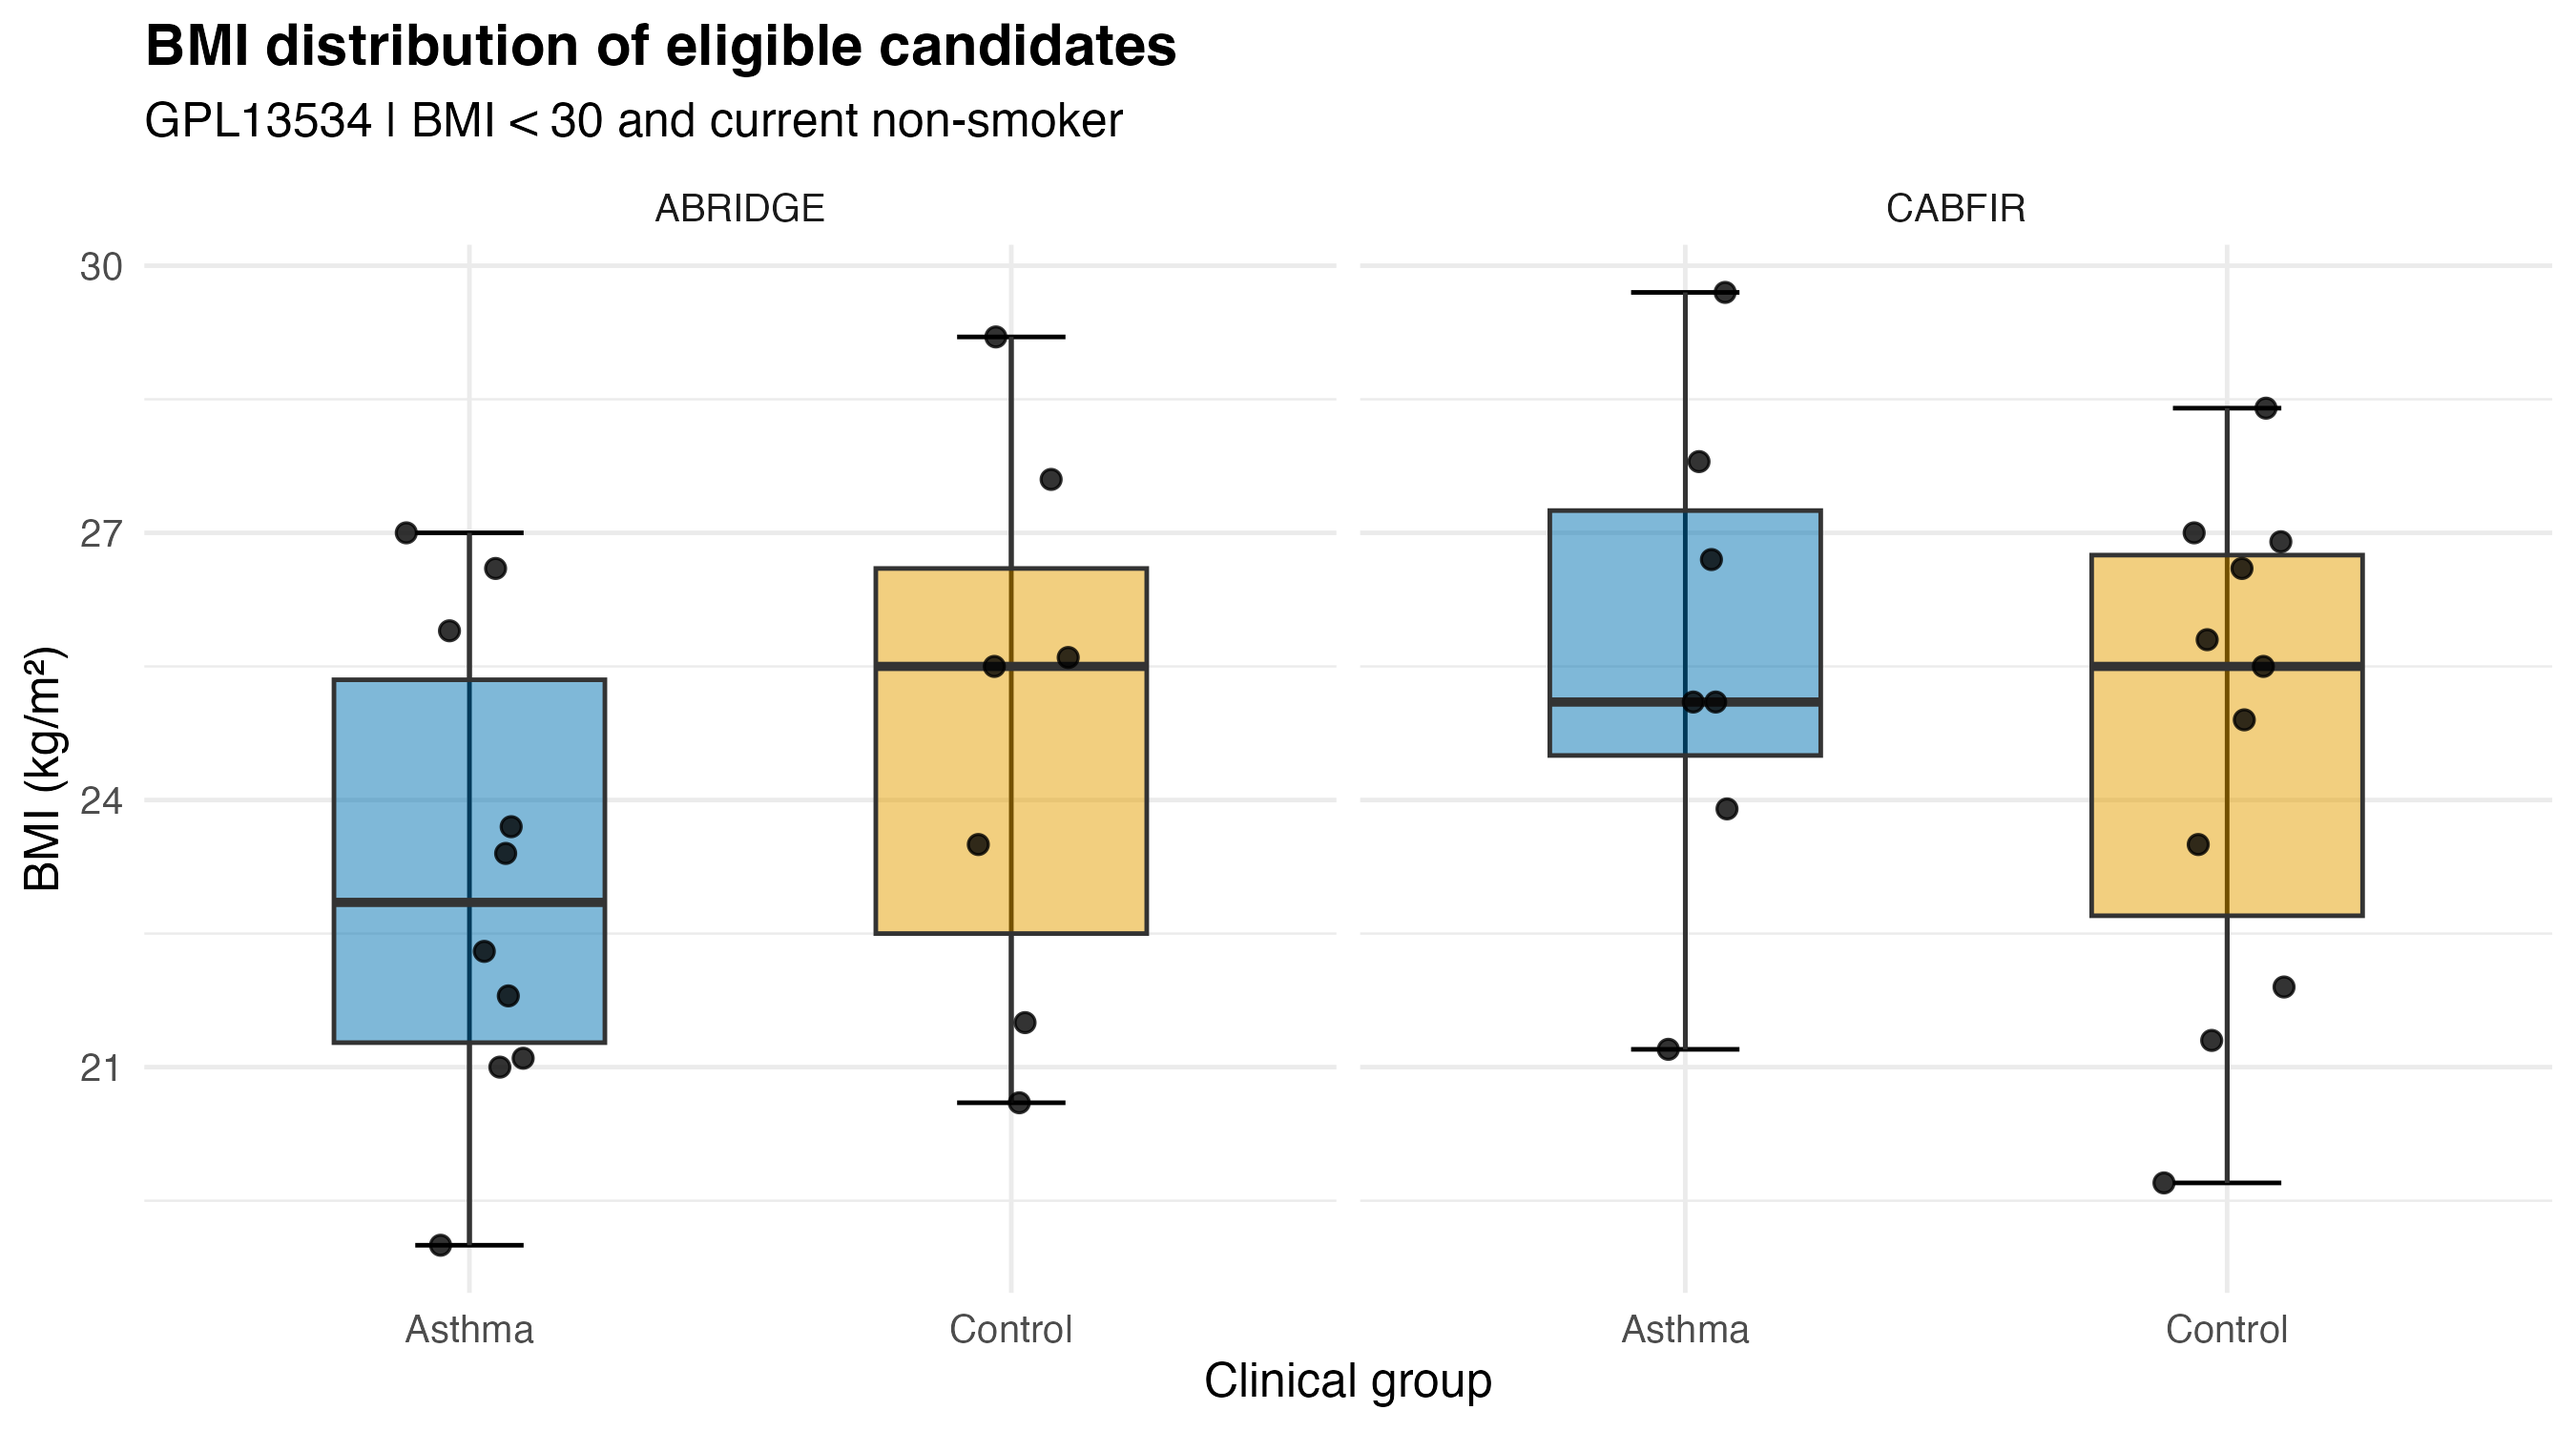
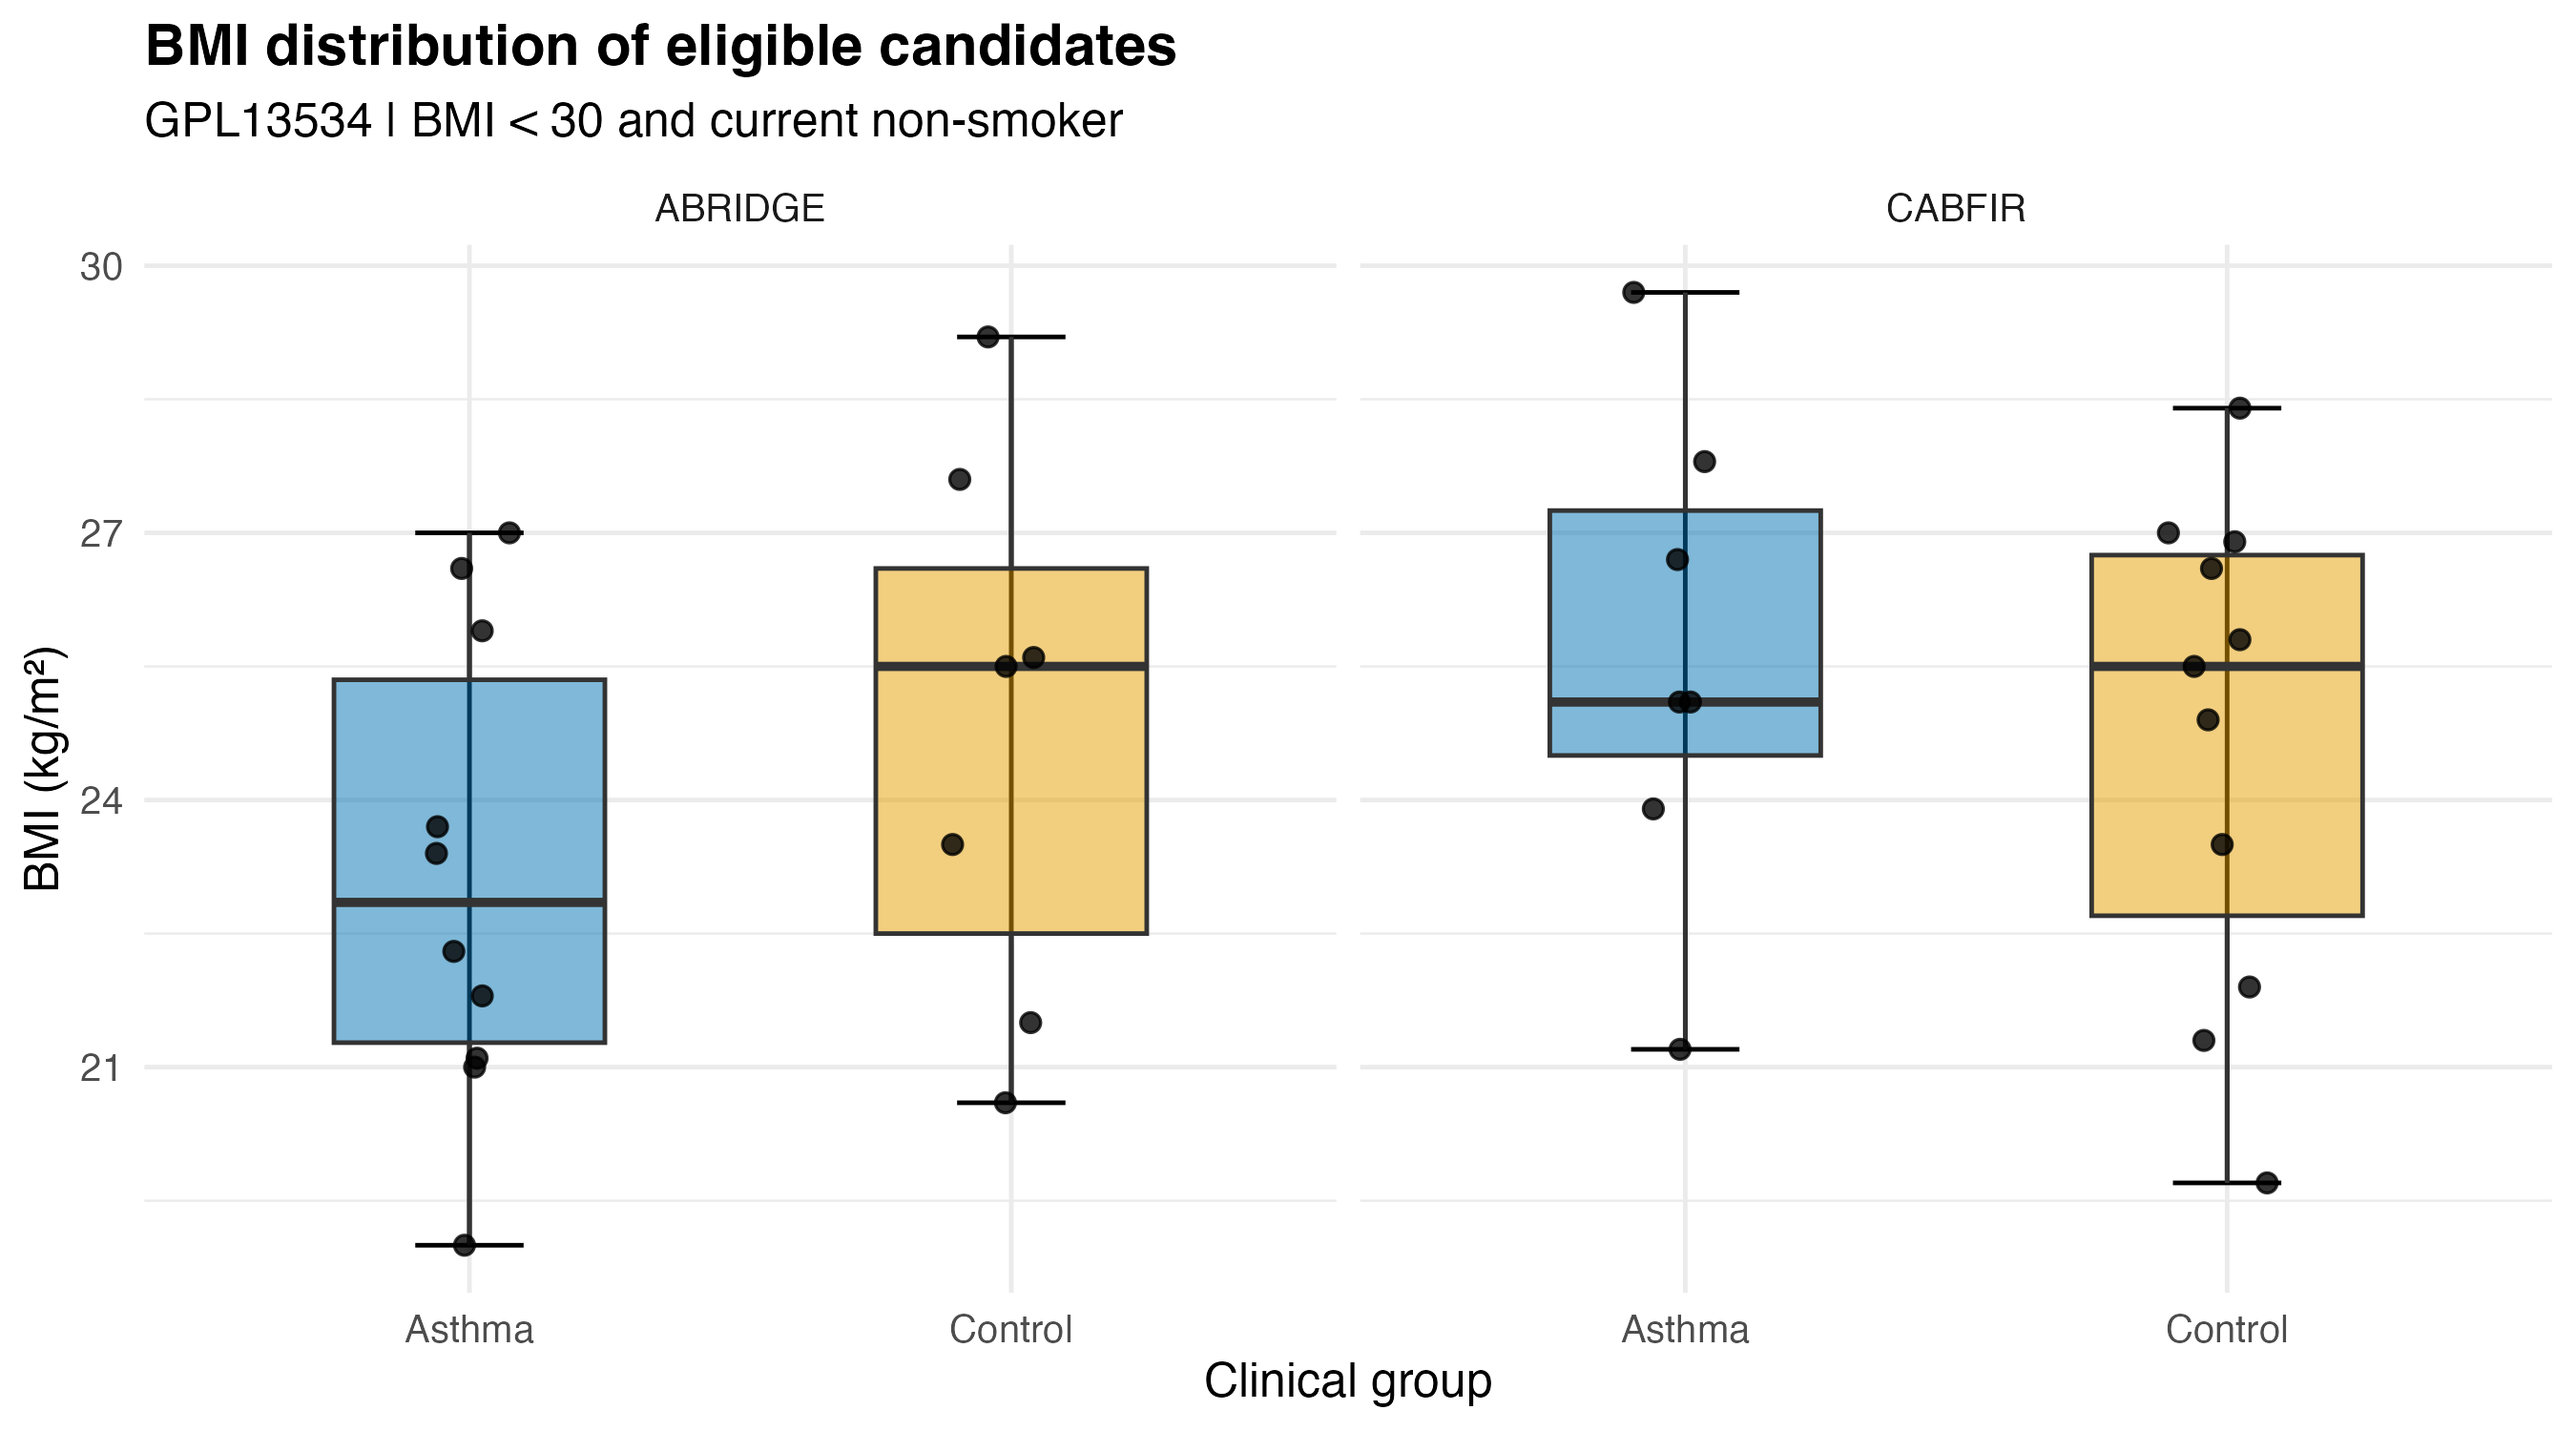
Document reproducible multi-omics sample selection

diff --git a/README.md b/README.md
@@ -212,7 +212,62 @@ The selection of participants for multi-omics analysis additionally requires ver
 ---
 
 ## 2. Sample selection
+ 
+### Objective = integration of DNA methylation and RNA-seq metadata
 
+DNA methylation metadata (GSE201872) and RNA-seq metadata (GSE201955) were obtained from the Gene Expression Omnibus (GEO).
+The DNA methylation dataset was restricted to samples analyzed using the Illumina HumanMethylation450 BeadChip (GPL13534). Participants were considered eligible if they met the following criteria:
+
+- Body mass index (BMI) < 30 kg/m²
+- No current smoking (`current_smok == "No"`)
+- Availability of DNA methylation data
+
+These criteria resulted in **41 eligible DNA methylation samples**.
+RNA-seq metadata contained **118 samples**. Participants were matched across the two datasets using the `geo_id` identifier in the methylation metadata and the `description` field in the RNA-seq metadata.
+A total of **37 participants** had matching identifiers across both datasets, comprising 21 asthma patients and 16 controls.
+Clinical metadata were compared across platforms to verify sample correspondence. Asthma status was concordant for all 37 matched participants, and no duplicate identifiers were detected. For the final selection, age, BMI, and current smoking status were also concordant across both datasets after harmonizing smoking status codes (`No`/`Yes` and `N`/`Y`).
+
+### Final Sample Selection
+
+A stratified random selection was performed using a fixed random seed (`set.seed(2026)`), selecting five asthma patients and five controls from each of the ABRIDGE and CABFIR recruitment cohorts.
+This approach ensured equal representation of asthma patients and controls within each recruitment cohort and methylation batch. The ROLD cohort was excluded from the final selection because no eligible controls were available.
+
+| Recruitment cohort | Methylation batch | Asthma | Control | Total |
+|---|---|---:|---:|---:|
+| ABRIDGE | 1 | 5 | 5 | 10 |
+| CABFIR | 2 | 5 | 5 | 10 |
+| **Total** | | **10** | **10** | **20** |
+
+The selected participants had a mean age of 34.3 years in the asthma group and 34.0 years in the control group. Mean BMI was 24.5 and 24.0 kg/m², respectively.
+All 20 selected participants met the BMI and current smoking criteria and had corresponding GEO sample accessions for both omics datasets.
+
+### Sample Selection Workflow
+
+```mermaid
+flowchart TD
+    A["DNA methylation metadata<br/>GSE201872: 142 samples"]
+    B["450K platform and eligibility filtering<br/>BMI &lt; 30; no current smoking"]
+    C["41 eligible methylation samples"]
+    D["RNA-seq metadata<br/>GSE201955: 118 samples"]
+    E["Match participant identifiers<br/>and verify asthma status"]
+    F["37 matched participants<br/>21 Asthma / 16 Control"]
+    G["Restrict to ABRIDGE and CABFIR<br/>31 participants"]
+    H["Stratified random selection<br/>5 Asthma + 5 Control per cohort"]
+    I["Final multi-omics cohort<br/>10 Asthma + 10 Control"]
+
+    A --> B --> C --> E
+    D --> E
+    E --> F --> G --> H --> I
+```
+
+### Reproducibility
+
+Eligible DNA methylation candidates are saved as an RDS file by `code/01_download_metadata.R`.
+The file is then loaded by `code/02_rnaseq_metadata.R` to identify participants with both DNA methylation and RNA-seq data.
+A fixed random seed (`set.seed(2026)`) is used to make the selection reproducible. The final sample manifest is saved locally as a CSV file and is not included in the public repository.
+
+The selection procedure and metadata validation are implemented in [`code/02_rnaseq_metadata.R`](code/02_rnaseq_metadata.R). The participant-level sample manifest is retained locally and is not included in the public repository.
+ 
 ## 3. DNA methylation analysis
 
 ## 4. RNA-seq analysis
